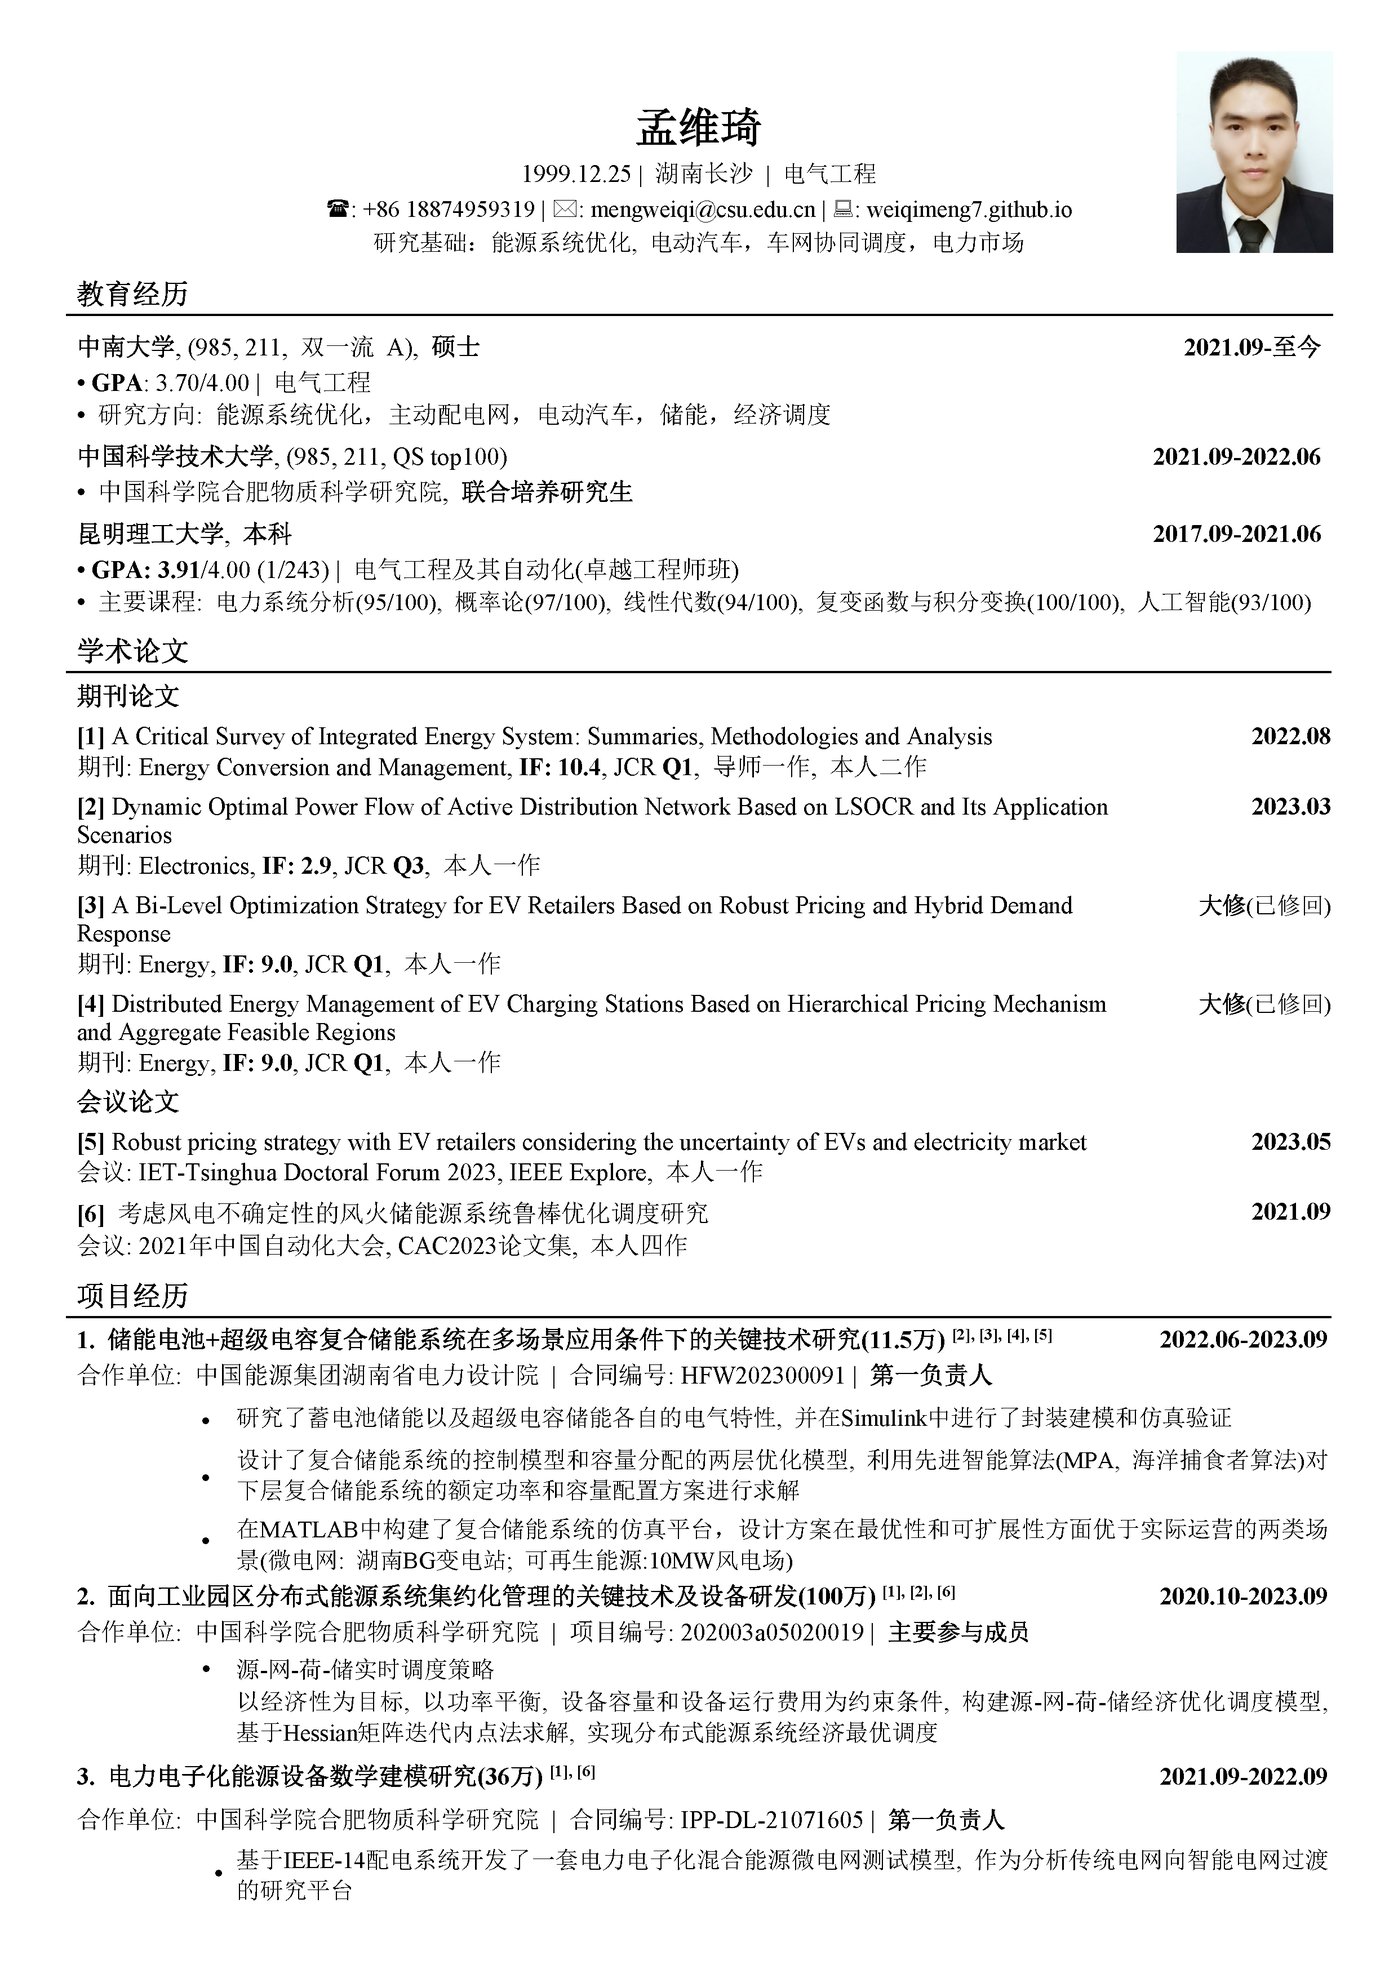
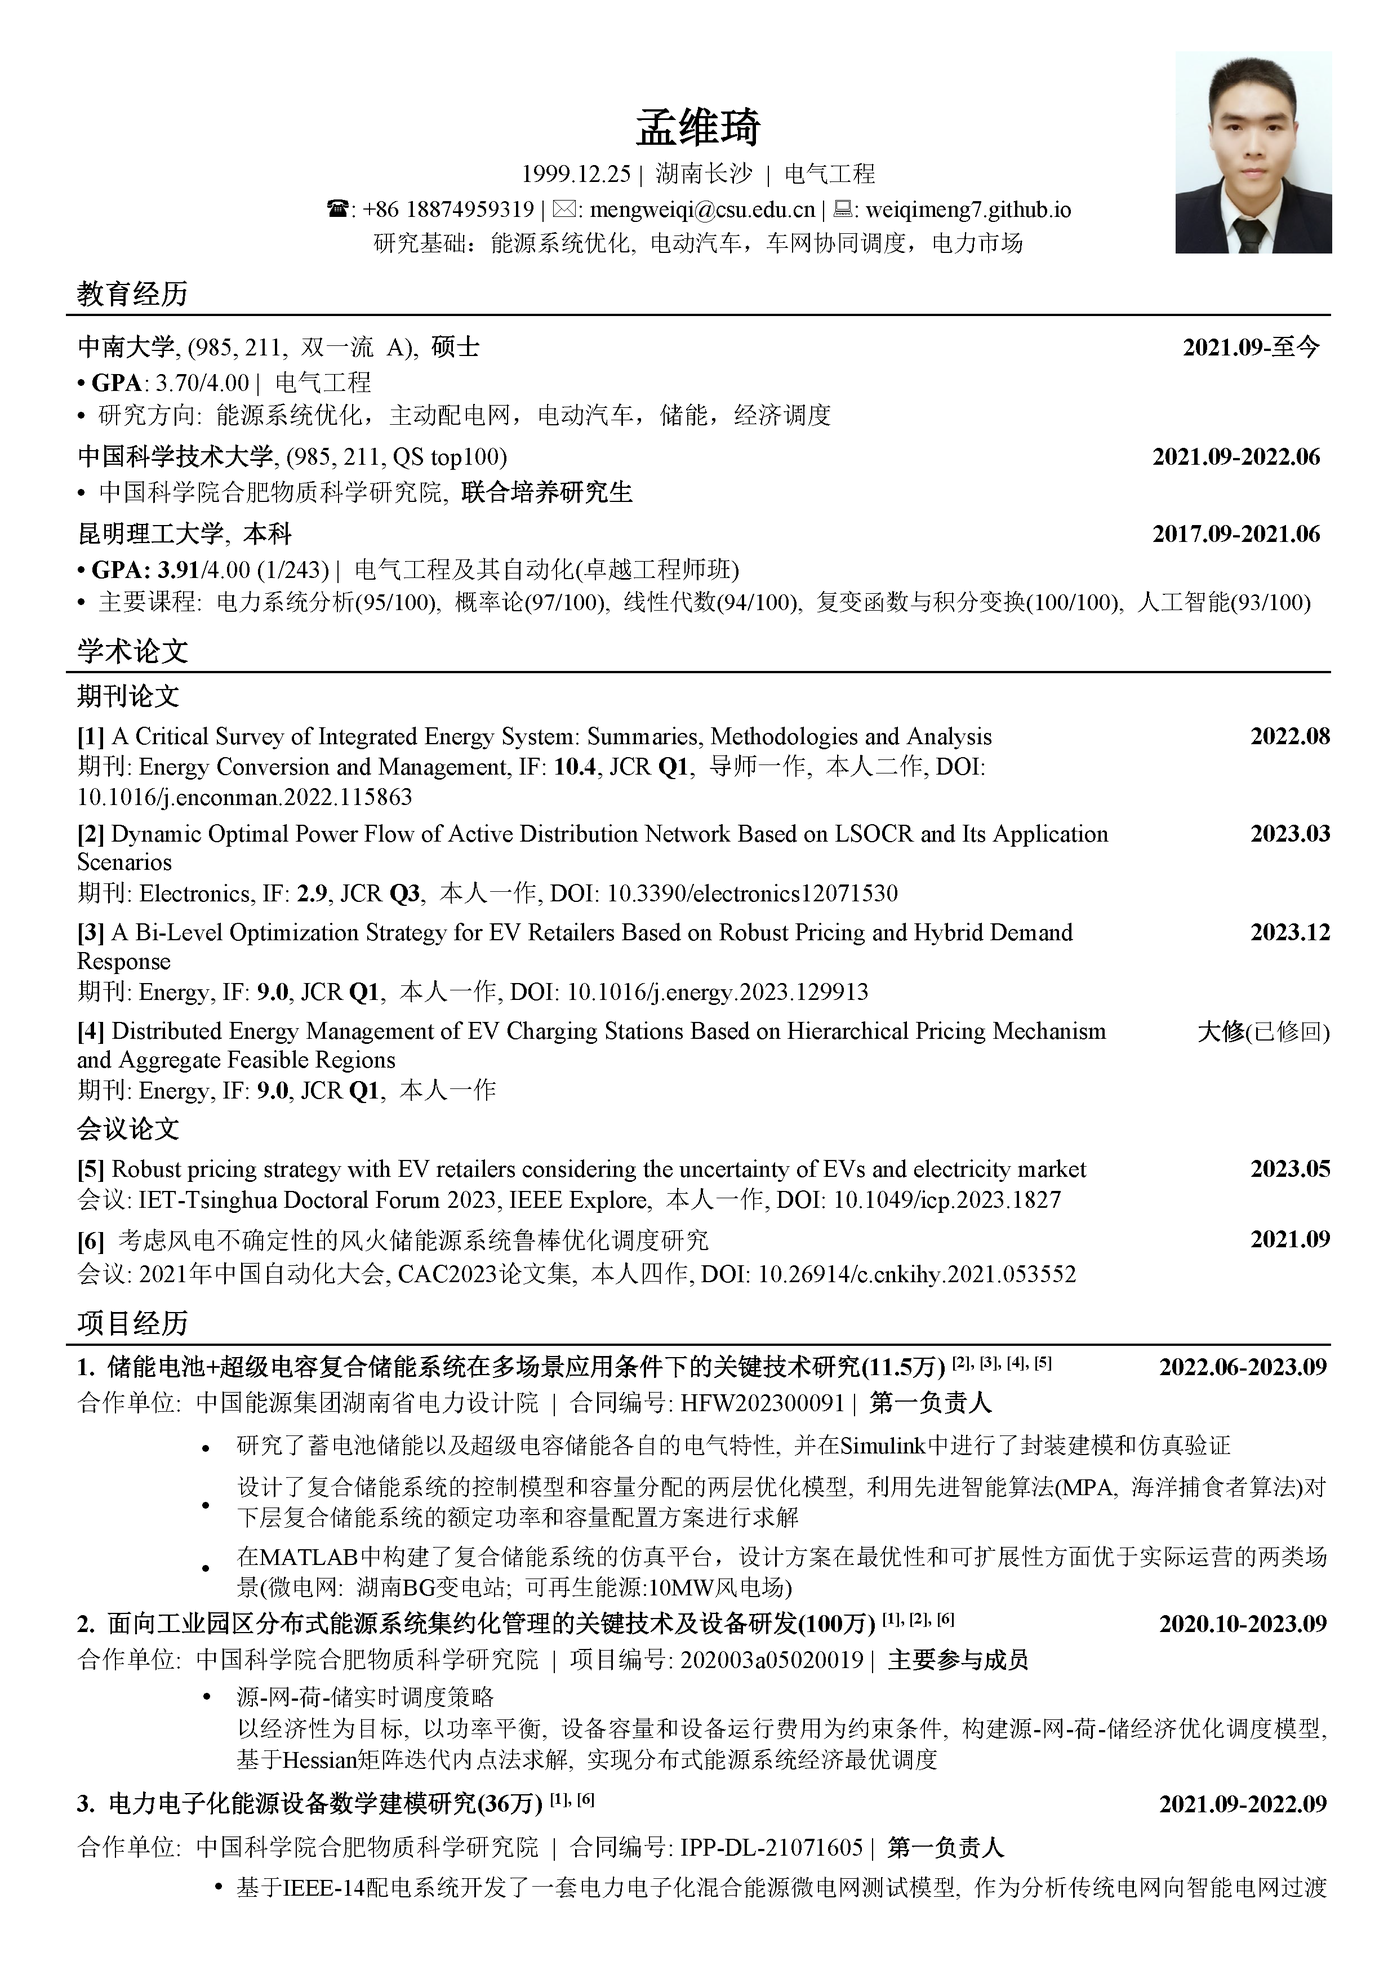
deploy: e1c331a3c3cd3f0f7507ac712aa72ff7c10626e6

diff --git a/en/publications/index.html b/en/publications/index.html
@@ -5,7 +5,7 @@ No.932 South Lushan Road, Changsha Hunan 410083 P.R. China</p><p>Email: mengweiq
 <a href=https://mp.weixin.qq.com/s/0gndUcVSP0wgPOLVeHFV7w target=_blank rel="noreferrer noopener"><em>Wechat Article</em></a>
 .
 <a href=https://github.com/weiqimeng7/weiqimeng7.github.io/blob/master/file/Acceptance-Certificate-electronics-2241628.pdf target=_blank rel="noreferrer noopener">Offical certificate</a>
-.</p><p>[3] <strong>W Meng</strong>, D Song, L Huang, X Chen, J Yang, M Dong, M. Talaat. A Bi-Level Optimization Strategy for Electric Vehicle Retailers Based on Robust Pricing and Hybrid Demand Response. Energy, JCR <strong>Q1</strong>, <strong>IF: 9.0</strong>. <strong>2023</strong>. (Has been accepted, awaiting online publication)</p><p>[4] <strong>W Meng</strong>, D Song, L Huang, X Chen, J Yang, M Dong, M. Talaat, M.H. Elkholy. Distributed Energy Management of Electric Vehicle Charging Stations Based on Hierarchical Pricing Mechanism and Aggregate Feasible Regions. Energy, JCR <strong>Q1</strong>, <strong>IF: 9.0</strong>. <strong>2023</strong>. (Major revisions have been submitted, waiting for the acceptance result).</p><h3 id=conference-paper>Conference Paper:<a href=#conference-paper class=header-anchor arialabel=Anchor> #</a></h3><p>[1] <strong>W. Meng</strong> et al., &ldquo;Robust pricing strategy with EV retailers considering the uncertainty of EVs and electricity market,&rdquo; Tsinghua-IET Electrical Engineering Academic Forum 2023, Beijing, China, <strong>2023</strong>, pp. 27-33, doi: https://doi.org/10.1049/icp.2023.1827 .<a href=https://github.com/weiqimeng7/weiqimeng7.github.io/blob/master/file/%e6%b5%b7%e6%8a%a5_%e5%ad%9f%e7%bb%b4%e7%90%a6_eeaf_20230405001.pdf target=_blank rel="noreferrer noopener">Poster</a>
+.</p><p>[3] <strong>W Meng</strong>, D Song, L Huang, X Chen, J Yang, M Dong, M. Talaat. A Bi-Level Optimization Strategy for Electric Vehicle Retailers Based on Robust Pricing and Hybrid Demand Response. Energy, JCR <strong>Q1</strong>, <strong>IF: 9.0</strong>. <strong>2023</strong>; 129913. https://doi.org/10.1016/j.energy.2023.129913.</p><p>[4] <strong>W Meng</strong>, D Song, L Huang, X Chen, J Yang, M Dong, M. Talaat, M.H. Elkholy. Distributed Energy Management of Electric Vehicle Charging Stations Based on Hierarchical Pricing Mechanism and Aggregate Feasible Regions. Energy, JCR <strong>Q1</strong>, <strong>IF: 9.0</strong>. <strong>2023</strong>. (Major revisions have been submitted, waiting for the acceptance result).</p><h3 id=conference-paper>Conference Paper:<a href=#conference-paper class=header-anchor arialabel=Anchor> #</a></h3><p>[1] <strong>W. Meng</strong> et al., &ldquo;Robust pricing strategy with EV retailers considering the uncertainty of EVs and electricity market,&rdquo; Tsinghua-IET Electrical Engineering Academic Forum 2023, Beijing, China, <strong>2023</strong>, pp. 27-33, doi: https://doi.org/10.1049/icp.2023.1827 .<a href=https://github.com/weiqimeng7/weiqimeng7.github.io/blob/master/file/%e6%b5%b7%e6%8a%a5_%e5%ad%9f%e7%bb%b4%e7%90%a6_eeaf_20230405001.pdf target=_blank rel="noreferrer noopener">Poster</a>
 .</p><p>[2] Zhao R, Yang J, Song D, <strong>Meng W</strong>, Chang Q, Wang L. Robust Optimal Scheduling of Wind Thermal Energy Storage System Considering Wind Power Uncertainty[C]. 2021 China Automation Congress (CAC). <strong>202</strong>1:6. https://doi.org/10.26914/c.cnkihy.2021.053552 .</p><p>[3] <strong>孟维琦</strong>,宋冬然,郭达辉,刘笑. 国家层面综合能源系统建模工具及方法综述[C]//.2022<a href=https://soa.csu.edu.cn/info/1032/5193.htm target=_blank rel="noreferrer noopener">中南大学第二届交叉学科研究生创新论坛工业智能化分论坛粘贴论文集</a>
 ,<strong>2021</strong>. <a href=https://github.com/weiqimeng7/weiqimeng7.github.io/blob/master/file/%e4%b8%ad%e5%8d%97%e5%a4%a7%e5%ad%a6+2021%e7%ba%a7+%e7%a1%95%e5%a3%ab%e7%94%9f+%e5%ad%9f%e7%bb%b4%e7%90%a6+13371191243+%e7%94%b5%e6%b0%94%e5%b7%a5%e7%a8%8b+%e5%b7%a5%e4%b8%9a%e6%99%ba%e8%83%bd.pdf target=_blank rel="noreferrer noopener"><em>海报原文</em></a>
 .</p><h3 id=curriculum-vitae--honors-and-prizesupdated-on-dec-10-2023>Curriculum Vitae & Honors and Prizes（updated on Dec 10, 2023）<a href=#curriculum-vitae--honors-and-prizesupdated-on-dec-10-2023 class=header-anchor arialabel=Anchor> #</a></h3><div class=row><div class="col-12 col-md-12 col-lg-12 item">**1. Chinese**<figure itemprop=associatedMedia itemscope itemtype=http://schema.org/ImageObject><a href=/image/%e7%ae%80%e5%8e%86/1-CV-Chinese-%e9%a1%b5%e9%9d%a2_1.png itemprop=contentUrl><img itemprop=thumbnail src=/image/%e7%ae%80%e5%8e%86/1-CV-Chinese-%e9%a1%b5%e9%9d%a2_1.png></a></figure><figure itemprop=associatedMedia itemscope itemtype=http://schema.org/ImageObject><a href=/image/%e7%ae%80%e5%8e%86/1-CV-Chinese-%e9%a1%b5%e9%9d%a2_2.png itemprop=contentUrl><img itemprop=thumbnail src=/image/%e7%ae%80%e5%8e%86/1-CV-Chinese-%e9%a1%b5%e9%9d%a2_2.png></a></figure>**2. English**<figure itemprop=associatedMedia itemscope itemtype=http://schema.org/ImageObject><a href=/image/%e7%ae%80%e5%8e%86/1-CV-English_%e9%a1%b5%e9%9d%a2_1.png itemprop=contentUrl><img itemprop=thumbnail src=/image/%e7%ae%80%e5%8e%86/1-CV-English_%e9%a1%b5%e9%9d%a2_1.png></a></figure><figure itemprop=associatedMedia itemscope itemtype=http://schema.org/ImageObject><a href=/image/%e7%ae%80%e5%8e%86/1-CV-English_%e9%a1%b5%e9%9d%a2_2.png itemprop=contentUrl><img itemprop=thumbnail src=/image/%e7%ae%80%e5%8e%86/1-CV-English_%e9%a1%b5%e9%9d%a2_2.png></a></figure><figure itemprop=associatedMedia itemscope itemtype=http://schema.org/ImageObject><a href=/image/%e7%ae%80%e5%8e%86/1-CV-English_%e9%a1%b5%e9%9d%a2_3.png itemprop=contentUrl><img itemprop=thumbnail src=/image/%e7%ae%80%e5%8e%86/1-CV-English_%e9%a1%b5%e9%9d%a2_3.png></a></figure>**3. Honors and Prizes**<figure itemprop=associatedMedia itemscope itemtype=http://schema.org/ImageObject><a href=/image/%e7%ae%80%e5%8e%86/PrizeandAwards.png itemprop=contentUrl><img itemprop=thumbnail src=/image/%e7%ae%80%e5%8e%86/PrizeandAwards.png></a></figure>**4. Project List**<figure itemprop=associatedMedia itemscope itemtype=http://schema.org/ImageObject><a href=/image/%e7%ae%80%e5%8e%86/PublicationList.png itemprop=contentUrl><img itemprop=thumbnail src=/image/%e7%ae%80%e5%8e%86/PublicationList.png></a></figure></div></div><h4 id=curriculum-vitae>Curriculum Vitae<a href=#curriculum-vitae class=header-anchor arialabel=Anchor> #</a></h4><p><a href=https://github.com/weiqimeng7/weiqimeng7.github.io/blob/master/file/1-CV-Chinese.pdf target=_blank rel="noreferrer noopener">github repository</a>

diff --git a/cn/刊物/index.html b/cn/刊物/index.html
@@ -5,7 +5,7 @@
 <a href=https://mp.weixin.qq.com/s/0gndUcVSP0wgPOLVeHFV7w target=_blank rel="noreferrer noopener"><em>Wechat Article</em></a>
 .
 <a href=https://github.com/weiqimeng7/weiqimeng7.github.io/blob/master/file/Acceptance-Certificate-electronics-2241628.pdf target=_blank rel="noreferrer noopener">Offical certificate</a>
-.</p><p>[3] <strong>W Meng</strong>, D Song, L Huang, X Chen, J Yang, M Dong, M. Talaat. A Bi-Level Optimization Strategy for Electric Vehicle Retailers Based on Robust Pricing and Hybrid Demand Response. Energy, JCR <strong>Q1</strong>, <strong>IF: 9.0</strong>. <strong>2023</strong>. (Has been accepted, awaiting online publication)</p><p>[4] <strong>W Meng</strong>, D Song, L Huang, X Chen, J Yang, M Dong, M. Talaat, M.H. Elkholy. Distributed Energy Management of Electric Vehicle Charging Stations Based on Hierarchical Pricing Mechanism and Aggregate Feasible Regions. Energy, JCR <strong>Q1</strong>, <strong>IF: 9.0</strong>. <strong>2023</strong>. (Major revisions have been submitted, waiting for the acceptance result).</p><h3 id=会议论文>会议论文:<a href=#会议论文 class=header-anchor arialabel=Anchor> #</a></h3><p>[1] <strong>W. Meng</strong> et al., &ldquo;Robust pricing strategy with EV retailers considering the uncertainty of EVs and electricity market,&rdquo; Tsinghua-IET Electrical Engineering Academic Forum 2023, Beijing, China, <strong>2023</strong>, pp. 27-33, doi: https://doi.org/10.1049/icp.2023.1827 .<a href=https://github.com/weiqimeng7/weiqimeng7.github.io/blob/master/file/%e6%b5%b7%e6%8a%a5_%e5%ad%9f%e7%bb%b4%e7%90%a6_eeaf_20230405001.pdf target=_blank rel="noreferrer noopener">粘贴海报</a>
+.</p><p>[3] <strong>W Meng</strong>, D Song, L Huang, X Chen, J Yang, M Dong, M. Talaat. A Bi-Level Optimization Strategy for Electric Vehicle Retailers Based on Robust Pricing and Hybrid Demand Response. Energy, JCR <strong>Q1</strong>, <strong>IF: 9.0</strong>. <strong>2023</strong>; 129913. https://doi.org/10.1016/j.energy.2023.129913.</p><p>[4] <strong>W Meng</strong>, D Song, L Huang, X Chen, J Yang, M Dong, M. Talaat, M.H. Elkholy. Distributed Energy Management of Electric Vehicle Charging Stations Based on Hierarchical Pricing Mechanism and Aggregate Feasible Regions. Energy, JCR <strong>Q1</strong>, <strong>IF: 9.0</strong>. <strong>2023</strong>. (Major revisions have been submitted, waiting for the acceptance result).</p><h3 id=会议论文>会议论文:<a href=#会议论文 class=header-anchor arialabel=Anchor> #</a></h3><p>[1] <strong>W. Meng</strong> et al., &ldquo;Robust pricing strategy with EV retailers considering the uncertainty of EVs and electricity market,&rdquo; Tsinghua-IET Electrical Engineering Academic Forum 2023, Beijing, China, <strong>2023</strong>, pp. 27-33, doi: https://doi.org/10.1049/icp.2023.1827 .<a href=https://github.com/weiqimeng7/weiqimeng7.github.io/blob/master/file/%e6%b5%b7%e6%8a%a5_%e5%ad%9f%e7%bb%b4%e7%90%a6_eeaf_20230405001.pdf target=_blank rel="noreferrer noopener">粘贴海报</a>
 .</p><p>[2] Zhao R, Yang J, Song D, <strong>Meng W</strong>, Chang Q, Wang L. Robust Optimal Scheduling of Wind Thermal Energy Storage System Considering Wind Power Uncertainty[C]. 2021 China Automation Congress (CAC). <strong>202</strong>1:6. https://doi.org/10.26914/c.cnkihy.2021.053552 .</p><p>[3] <strong>孟维琦</strong>,宋冬然,郭达辉,刘笑. 国家层面综合能源系统建模工具及方法综述[C]//.2022<a href=https://soa.csu.edu.cn/info/1032/5193.htm target=_blank rel="noreferrer noopener">中南大学第二届交叉学科研究生创新论坛工业智能化分论坛粘贴论文集</a>
 ,<strong>2021</strong>. <a href=https://github.com/weiqimeng7/weiqimeng7.github.io/blob/master/file/%e4%b8%ad%e5%8d%97%e5%a4%a7%e5%ad%a6+2021%e7%ba%a7+%e7%a1%95%e5%a3%ab%e7%94%9f+%e5%ad%9f%e7%bb%b4%e7%90%a6+13371191243+%e7%94%b5%e6%b0%94%e5%b7%a5%e7%a8%8b+%e5%b7%a5%e4%b8%9a%e6%99%ba%e8%83%bd.pdf target=_blank rel="noreferrer noopener"><em>海报原文</em></a>
 .</p><h3 id=学术简历--荣誉奖项updated-on-dec-10-2023>学术简历 & 荣誉奖项（updated on Dec 10, 2023）<a href=#学术简历--荣誉奖项updated-on-dec-10-2023 class=header-anchor arialabel=Anchor> #</a></h3><div class=row><div class="col-12 col-md-12 col-lg-12 item">**1. Chinese**<figure itemprop=associatedMedia itemscope itemtype=http://schema.org/ImageObject><a href=/image/%e7%ae%80%e5%8e%86/1-CV-Chinese-%e9%a1%b5%e9%9d%a2_1.png itemprop=contentUrl><img itemprop=thumbnail src=/image/%e7%ae%80%e5%8e%86/1-CV-Chinese-%e9%a1%b5%e9%9d%a2_1.png></a></figure><figure itemprop=associatedMedia itemscope itemtype=http://schema.org/ImageObject><a href=/image/%e7%ae%80%e5%8e%86/1-CV-Chinese-%e9%a1%b5%e9%9d%a2_2.png itemprop=contentUrl><img itemprop=thumbnail src=/image/%e7%ae%80%e5%8e%86/1-CV-Chinese-%e9%a1%b5%e9%9d%a2_2.png></a></figure>**2. English**<figure itemprop=associatedMedia itemscope itemtype=http://schema.org/ImageObject><a href=/image/%e7%ae%80%e5%8e%86/1-CV-English_%e9%a1%b5%e9%9d%a2_1.png itemprop=contentUrl><img itemprop=thumbnail src=/image/%e7%ae%80%e5%8e%86/1-CV-English_%e9%a1%b5%e9%9d%a2_1.png></a></figure><figure itemprop=associatedMedia itemscope itemtype=http://schema.org/ImageObject><a href=/image/%e7%ae%80%e5%8e%86/1-CV-English_%e9%a1%b5%e9%9d%a2_2.png itemprop=contentUrl><img itemprop=thumbnail src=/image/%e7%ae%80%e5%8e%86/1-CV-English_%e9%a1%b5%e9%9d%a2_2.png></a></figure><figure itemprop=associatedMedia itemscope itemtype=http://schema.org/ImageObject><a href=/image/%e7%ae%80%e5%8e%86/1-CV-English_%e9%a1%b5%e9%9d%a2_3.png itemprop=contentUrl><img itemprop=thumbnail src=/image/%e7%ae%80%e5%8e%86/1-CV-English_%e9%a1%b5%e9%9d%a2_3.png></a></figure>**3. Honors and Prizes**<figure itemprop=associatedMedia itemscope itemtype=http://schema.org/ImageObject><a href=/image/%e7%ae%80%e5%8e%86/PrizeandAwards.png itemprop=contentUrl><img itemprop=thumbnail src=/image/%e7%ae%80%e5%8e%86/PrizeandAwards.png></a></figure>**4. Project List**<figure itemprop=associatedMedia itemscope itemtype=http://schema.org/ImageObject><a href=/image/%e7%ae%80%e5%8e%86/PublicationList.png itemprop=contentUrl><img itemprop=thumbnail src=/image/%e7%ae%80%e5%8e%86/PublicationList.png></a></figure></div></div><h4 id=学术简历>学术简历<a href=#学术简历 class=header-anchor arialabel=Anchor> #</a></h4><p><a href=https://github.com/weiqimeng7/weiqimeng7.github.io/blob/master/file/1-CV-Chinese.pdf target=_blank rel="noreferrer noopener">github repository</a>

diff --git a/en/about/index.html b/en/about/index.html
@@ -5,7 +5,7 @@ No.932 South Lushan Road, Changsha Hunan 410083 P.R. China</p><p>Email: mengweiq
 <a href=https://mp.weixin.qq.com/s/0gndUcVSP0wgPOLVeHFV7w target=_blank rel="noreferrer noopener"><em>Wechat Article</em></a>
 .
 <a href=https://github.com/weiqimeng7/weiqimeng7.github.io/blob/master/file/Acceptance-Certificate-electronics-2241628.pdf target=_blank rel="noreferrer noopener">Offical certificate</a>
-.</p><p>[3] <strong>W Meng</strong>, D Song, L Huang, X Chen, J Yang, M Dong, M. Talaat. A Bi-Level Optimization Strategy for Electric Vehicle Retailers Based on Robust Pricing and Hybrid Demand Response. Energy, JCR <strong>Q1</strong>, <strong>IF: 9.0</strong>. <strong>2023</strong>. (Has been accepted, awaiting online publication)</p><p>[4] <strong>W Meng</strong>, D Song, L Huang, X Chen, J Yang, M Dong, M. Talaat, M.H. Elkholy. Distributed Energy Management of Electric Vehicle Charging Stations Based on Hierarchical Pricing Mechanism and Aggregate Feasible Regions. Energy, JCR <strong>Q1</strong>, <strong>IF: 9.0</strong>. <strong>2023</strong>. (Major revisions have been submitted, waiting for the acceptance result).</p><h3 id=conference-paper>Conference Paper:<a href=#conference-paper class=header-anchor arialabel=Anchor> #</a></h3><p>[1] <strong>W. Meng</strong> et al., &ldquo;Robust pricing strategy with EV retailers considering the uncertainty of EVs and electricity market,&rdquo; Tsinghua-IET Electrical Engineering Academic Forum 2023, Beijing, China, <strong>2023</strong>, pp. 27-33, doi: https://doi.org/10.1049/icp.2023.1827 .<a href=https://github.com/weiqimeng7/weiqimeng7.github.io/blob/master/file/%e6%b5%b7%e6%8a%a5_%e5%ad%9f%e7%bb%b4%e7%90%a6_eeaf_20230405001.pdf target=_blank rel="noreferrer noopener">Poster</a>
+.</p><p>[3] <strong>W Meng</strong>, D Song, L Huang, X Chen, J Yang, M Dong, M. Talaat. A Bi-Level Optimization Strategy for Electric Vehicle Retailers Based on Robust Pricing and Hybrid Demand Response. Energy, JCR <strong>Q1</strong>, <strong>IF: 9.0</strong>. <strong>2023</strong>; 129913. https://doi.org/10.1016/j.energy.2023.129913.</p><p>[4] <strong>W Meng</strong>, D Song, L Huang, X Chen, J Yang, M Dong, M. Talaat, M.H. Elkholy. Distributed Energy Management of Electric Vehicle Charging Stations Based on Hierarchical Pricing Mechanism and Aggregate Feasible Regions. Energy, JCR <strong>Q1</strong>, <strong>IF: 9.0</strong>. <strong>2023</strong>. (Major revisions have been submitted, waiting for the acceptance result).</p><h3 id=conference-paper>Conference Paper:<a href=#conference-paper class=header-anchor arialabel=Anchor> #</a></h3><p>[1] <strong>W. Meng</strong> et al., &ldquo;Robust pricing strategy with EV retailers considering the uncertainty of EVs and electricity market,&rdquo; Tsinghua-IET Electrical Engineering Academic Forum 2023, Beijing, China, <strong>2023</strong>, pp. 27-33, doi: https://doi.org/10.1049/icp.2023.1827 .<a href=https://github.com/weiqimeng7/weiqimeng7.github.io/blob/master/file/%e6%b5%b7%e6%8a%a5_%e5%ad%9f%e7%bb%b4%e7%90%a6_eeaf_20230405001.pdf target=_blank rel="noreferrer noopener">Poster</a>
 .</p><p>[2] Zhao R, Yang J, Song D, <strong>Meng W</strong>, Chang Q, Wang L. Robust Optimal Scheduling of Wind Thermal Energy Storage System Considering Wind Power Uncertainty[C]. 2021 China Automation Congress (CAC). <strong>202</strong>1:6. https://doi.org/10.26914/c.cnkihy.2021.053552 .</p><p>[3] <strong>孟维琦</strong>,宋冬然,郭达辉,刘笑. 国家层面综合能源系统建模工具及方法综述[C]//.2022<a href=https://soa.csu.edu.cn/info/1032/5193.htm target=_blank rel="noreferrer noopener">中南大学第二届交叉学科研究生创新论坛工业智能化分论坛粘贴论文集</a>
 ,<strong>2021</strong>. <a href=https://github.com/weiqimeng7/weiqimeng7.github.io/blob/master/file/%e4%b8%ad%e5%8d%97%e5%a4%a7%e5%ad%a6+2021%e7%ba%a7+%e7%a1%95%e5%a3%ab%e7%94%9f+%e5%ad%9f%e7%bb%b4%e7%90%a6+13371191243+%e7%94%b5%e6%b0%94%e5%b7%a5%e7%a8%8b+%e5%b7%a5%e4%b8%9a%e6%99%ba%e8%83%bd.pdf target=_blank rel="noreferrer noopener"><em>海报原文</em></a>
 .</p><h3 id=curriculum-vitae-pdf>Curriculum Vitae (PDF)<a href=#curriculum-vitae-pdf class=header-anchor arialabel=Anchor> #</a></h3><p><a href=https://github.com/weiqimeng7/weiqimeng7.github.io/blob/master/file/1-CV-English.pdf target=_blank rel="noreferrer noopener">github repository</a>
